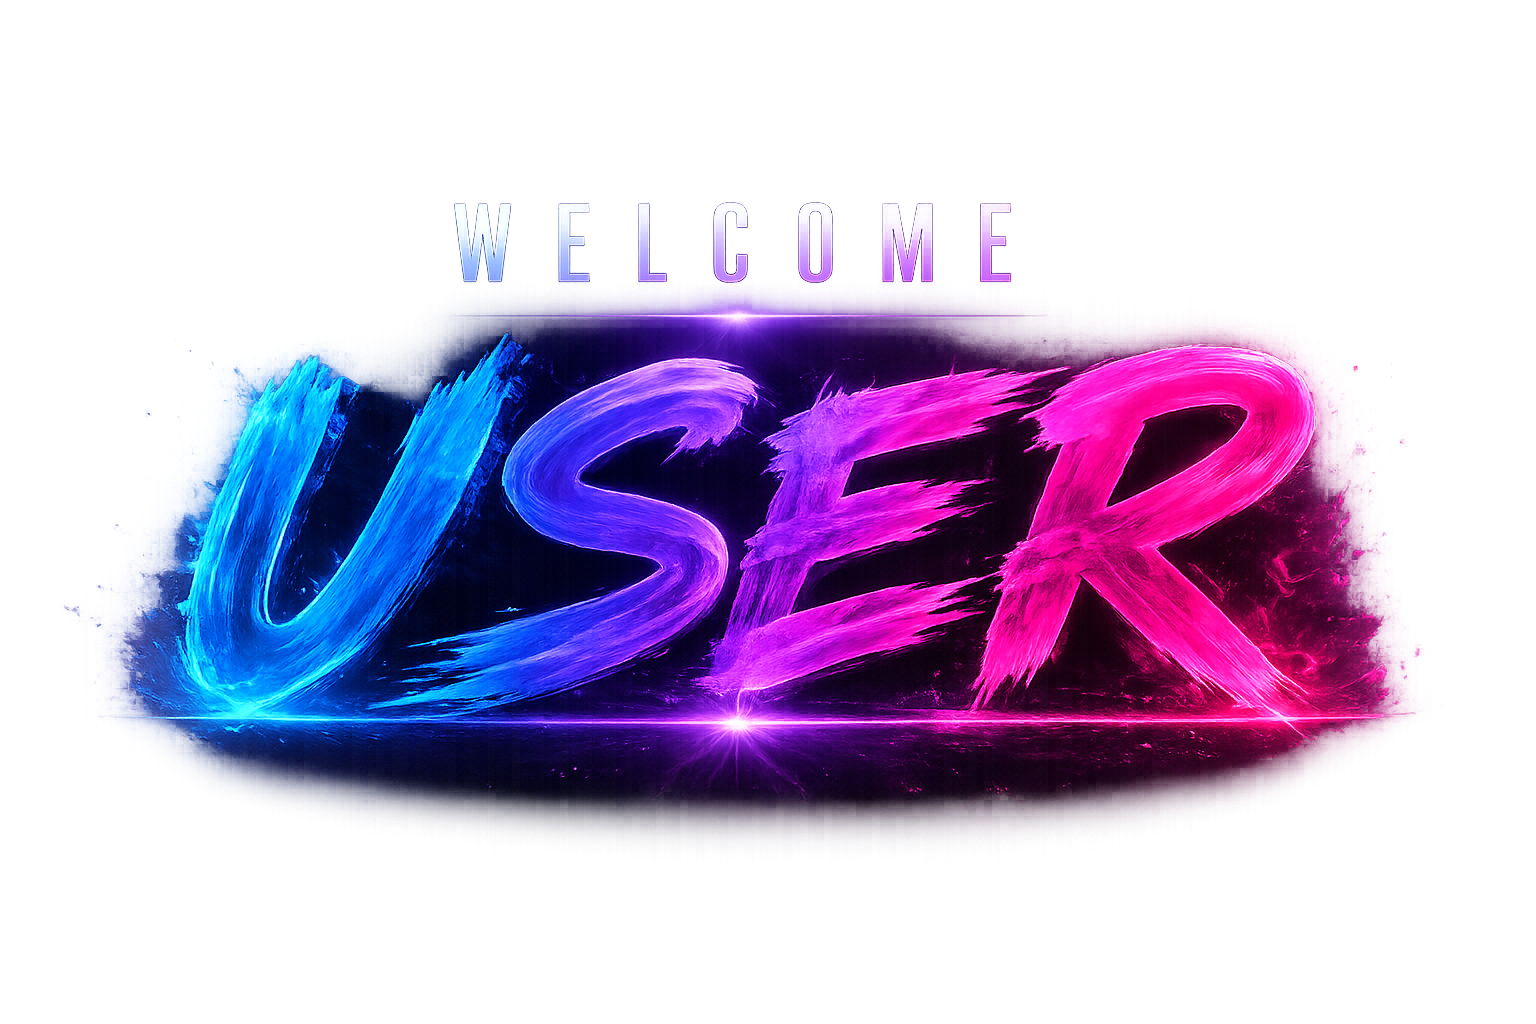
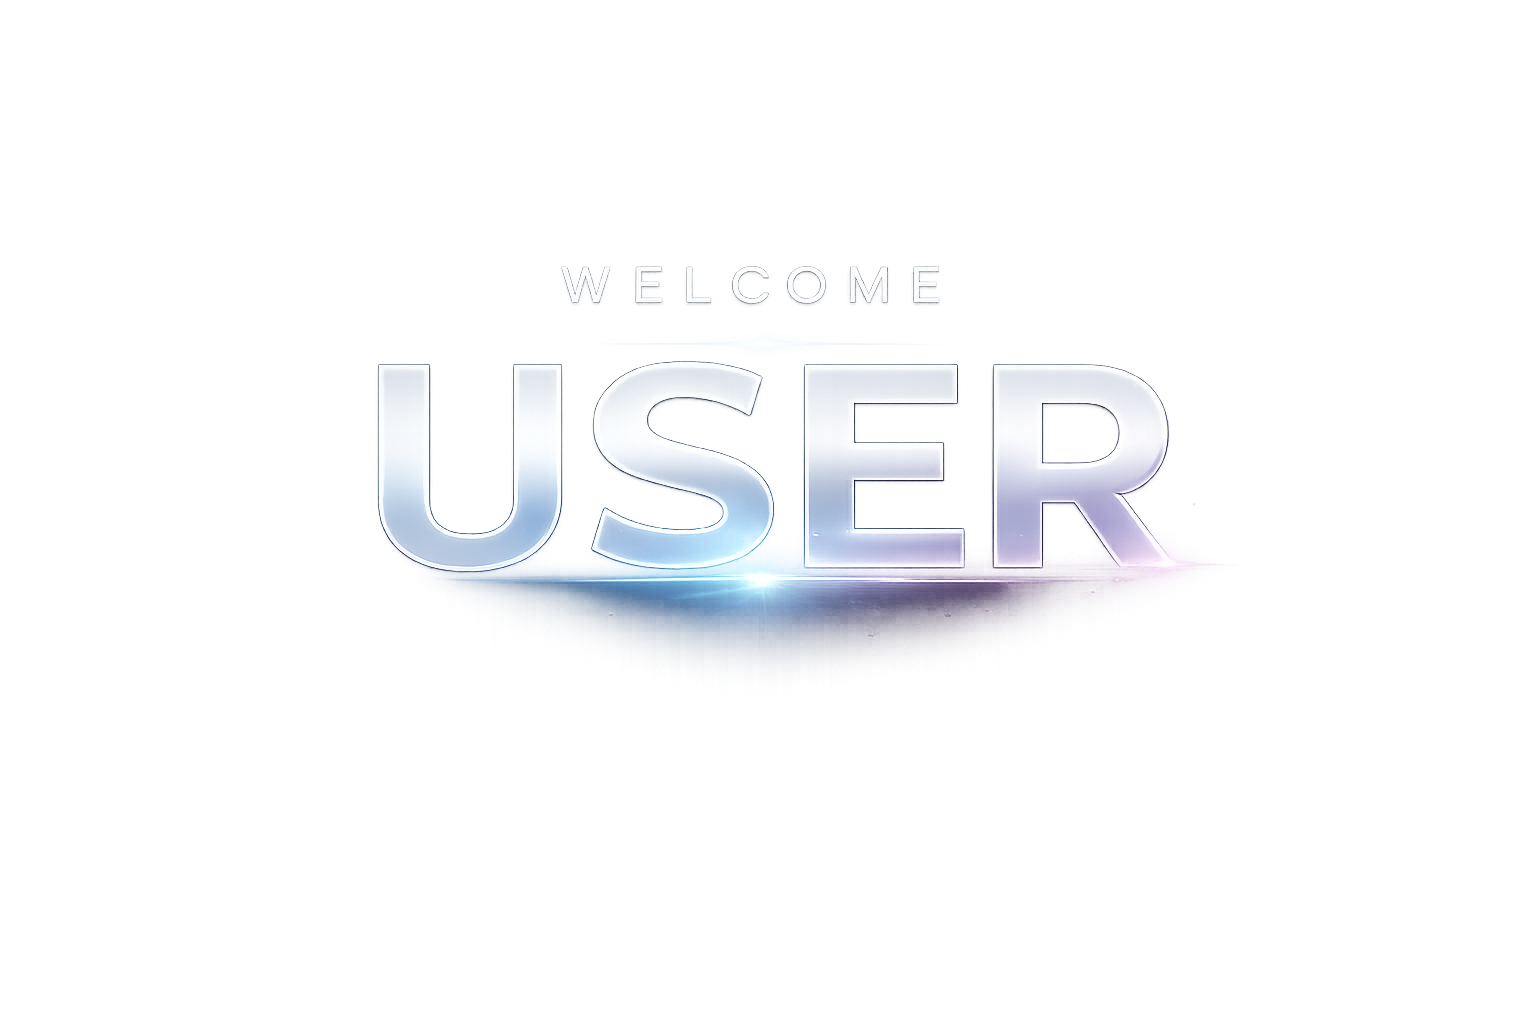
Tune welcome header placement and sizing on experience dashboard.
Adjust top offset, left alignment, and narrower banner width; update welcome_header.png asset.

diff --git a/app/globals.css b/app/globals.css
@@ -2025,7 +2025,7 @@ html {
   width: 100%;
   align-items: flex-start;
   justify-content: center;
-  padding-top: clamp(3.25rem, 10.5vh, 5rem);
+  padding-top: clamp(17.25rem, 12.5vh, 6rem);
   pointer-events: none;
 }
 
@@ -2033,13 +2033,13 @@ html {
   display: flex;
   width: 100%;
   flex-direction: column;
-  align-items: center;
+  align-items: flex-start;
   flex-shrink: 0;
 }
 
 .experience-dashboard-welcome-header {
   display: block;
-  width: min(92%, 20rem);
+  width: min(52%, 20rem);
   height: auto;
   filter:
     drop-shadow(0 0 12px rgb(138 43 226 / 0.45))
